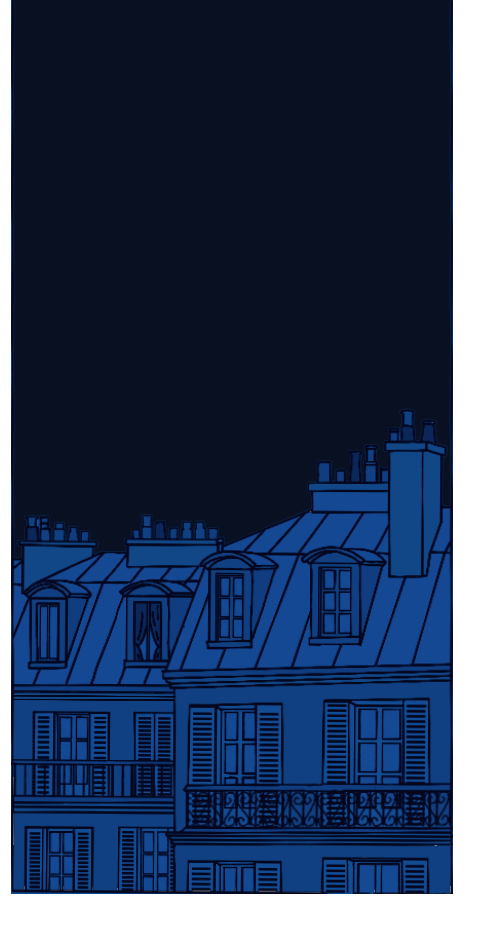
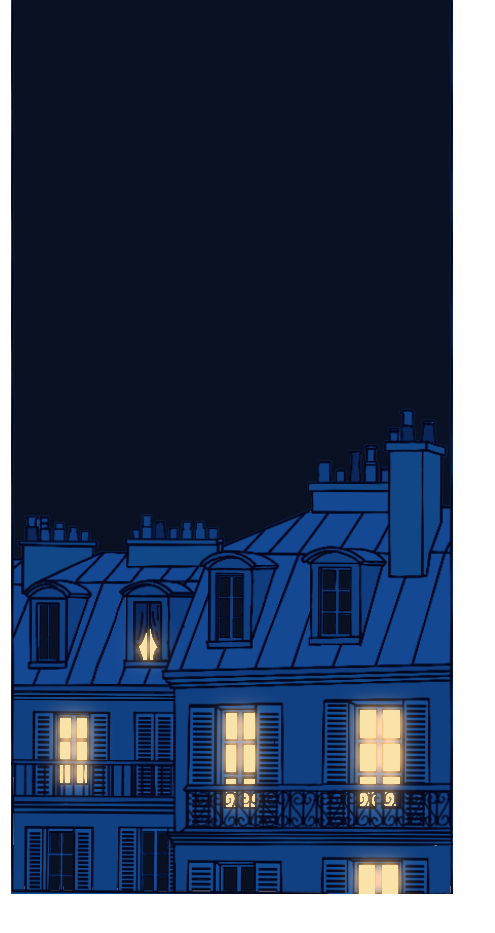
Light the Paris windows and intensify the fine lilac rain

diff --git a/index.html b/index.html
@@ -261,11 +261,11 @@ html[data-theme="night"] #nana-glow-stars-layer .nana-phosphor-star {opacity:1!i
       clip-path:polygon(3.2323% 12.7546%, 87.0707% 2.358%, 87.4747% 95.3912%, 3.2323% 94.7481%);
       background:url("assets/room-redraw/paris-jour.webp") center / 100% 100% no-repeat;
     }
-    html[data-theme="night"] #v2-paris { background-image:url("assets/room-redraw/paris-nuit.webp"); }
+    html[data-theme="night"] #v2-paris { background-image:url("assets/room-redraw/paris-nuit.webp?v=fenetres-1"); }
     #v2-paris svg { display:block; width:100%; height:100%; opacity:.82; }
-    html[data-theme="night"] #v2-paris svg { opacity:.48; }
+    html[data-theme="night"] #v2-paris svg { opacity:.58; }
     @media (prefers-reduced-motion:no-preference) {
-      .paris-rain { animation:paris-rain-fall .64s linear infinite; }
+      .paris-rain { animation:paris-rain-fall .51s linear infinite; }
     }
     @keyframes paris-rain-fall { to { transform:translateY(160px); } }
     #v2-japan {
@@ -1058,7 +1058,7 @@ html body #work-desktop .desktop-folder .folder-tile.work-browser-tile{
             <svg viewBox="0 0 495 933" preserveAspectRatio="none" focusable="false">
               <defs>
                 <pattern id="paris-rain-tile" width="148" height="160" patternUnits="userSpaceOnUse">
-                  <path d="M13 24v10 M83 6v7 M117 61v13 M50 89v9 M99 134v8 M23 147v5" fill="none" stroke="#d5b8e8" stroke-width="1.6" stroke-linecap="round"/>
+                  <path d="M13 24v13 M83 6v10 M117 61v16 M50 89v12 M99 134v11 M23 147v7 M44 9v11 M135 30v9 M68 46v15 M28 67v8 M89 81v13 M132 107v12 M9 113v10 M61 139v14" fill="none" stroke="#d5b8e8" stroke-width="1.6" stroke-linecap="round"/>
                 </pattern>
               </defs>
               <g transform="skewX(-9)">
